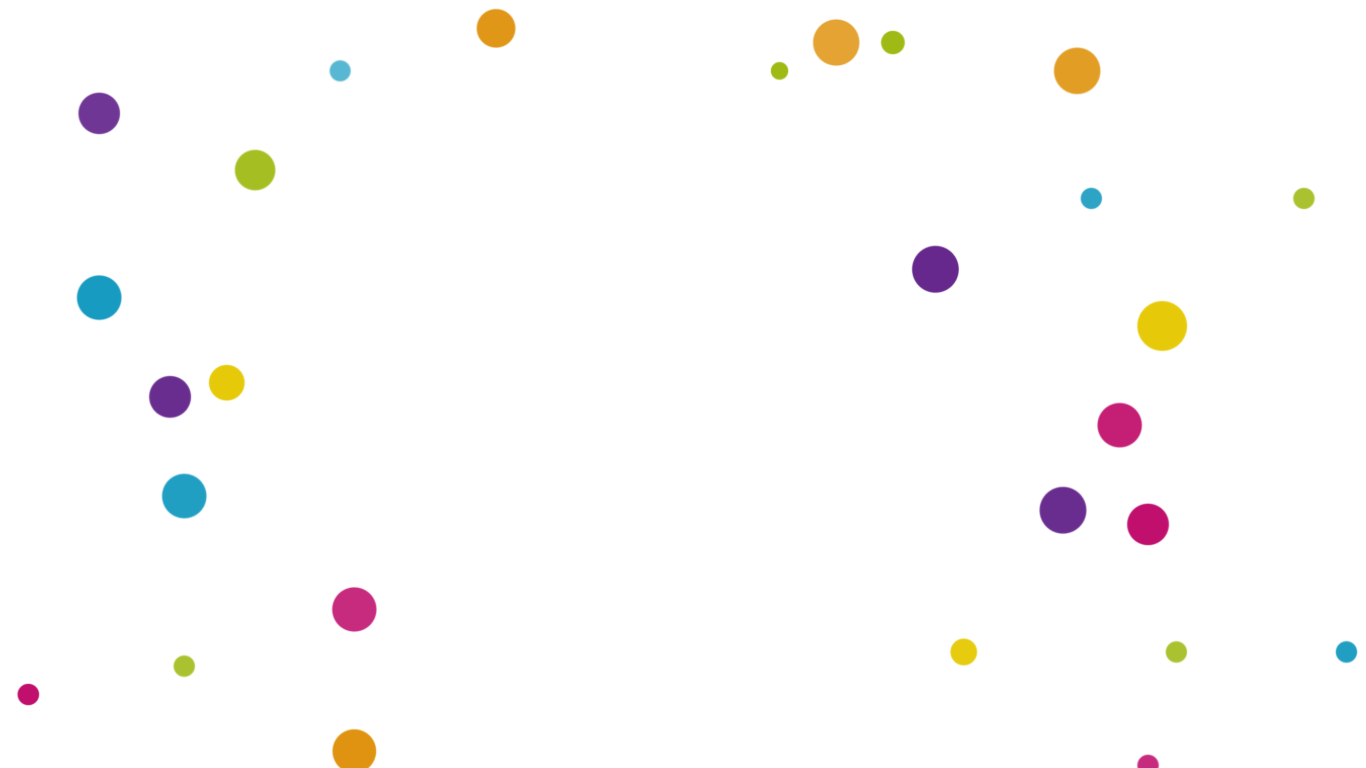
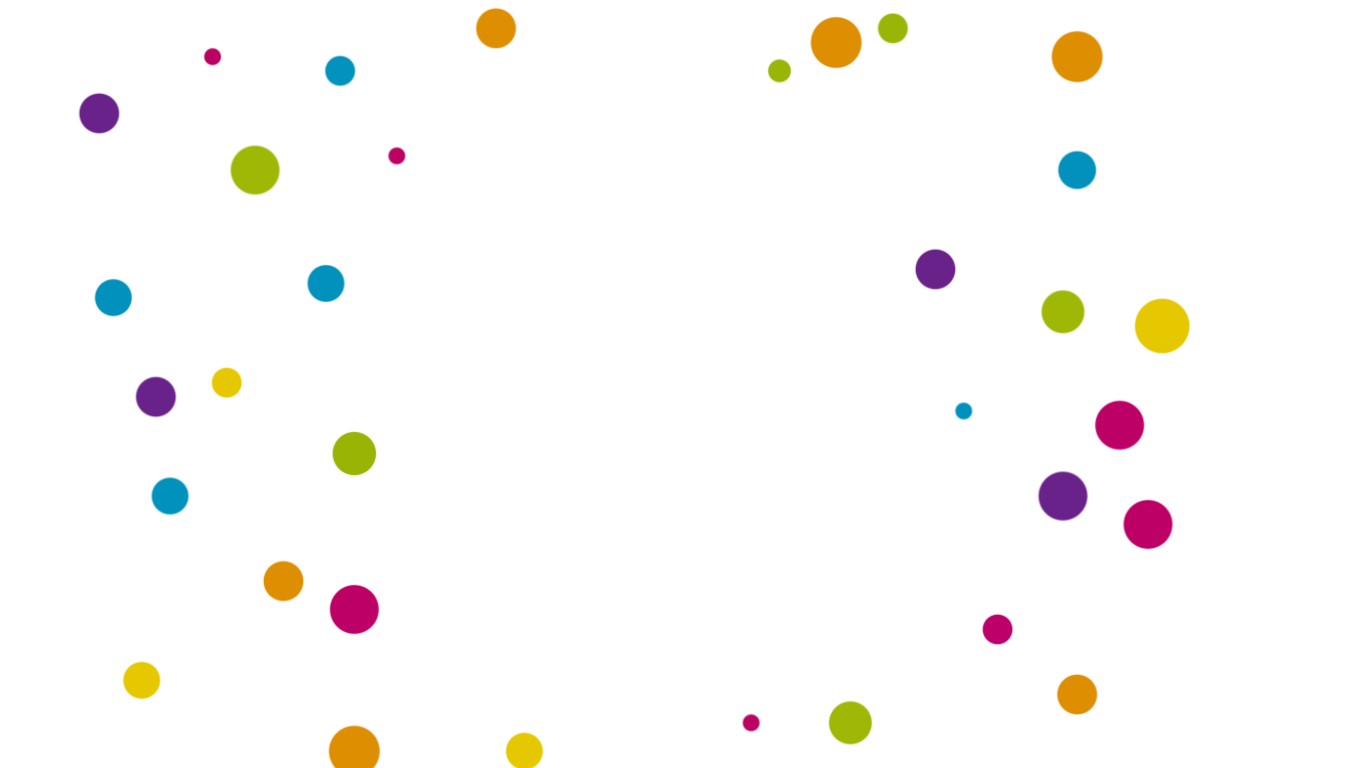
updated backround and text

diff --git a/index.html b/index.html
@@ -64,6 +64,10 @@
   left: 0;
 }
 
+.text--normal{
+  font-weight: 400;
+}
+
 .headline {
     font-weight: 900;
     text-transform: uppercase;
@@ -91,7 +95,13 @@ p {
     .contact_services--text{
       font-weight: 900;
       font-size: 20px;
+      padding-top: 10px;
+      padding-bottom: 10px;
+      display: block;
     }
+    
+
+
 
 @media only screen and (max-width: 830px) {
   .container-wrapper--img{
@@ -163,6 +173,9 @@ p {
     .contact_services--text{
       font-size: 12px;
     }
+    .contact p span:nth-child(2):before{
+      content: ' '; display: block;
+    }
   }
   @media only screen and (max-width: 300px) {
     .background-image{
@@ -182,10 +195,11 @@ p {
       <img class="container-wrapper--img" src="rm-design_logo_copy.png" alt="">
         <h1 class="headline">Prihajamo boljši!</h1>
         <p>Kmalu se vrnemo z novo podobo.</p>
-        <p>Hvala za razumevanje.</p>
+        <p class="text--normal">Hvala za razumevanje.</p>
         <div class="contact">
           <span class="contact_services--text">UV tiskarna | sitotiskarna | tampotiskarna | tiskarna tekstila in papirnatih vrečk</span>
-          <p>RM design</br>Robert Metličar s.p.</br>Trčova 169</br>SI-2229 Malečnik</p>
+          
+          <p><span>RM Design, Robert Metličar s.p.,</span><span> Trčova 169, SI-2229 Malečnik</span></p>
           <p><a href="tel:+38668641427">+386 68 641 427</a></br><a href="tel:+38641758117">+386 41 758 117</a></br><a href="mailto:info@rm-design.si">info@rm-design.si</a></p>
         </div>
         
